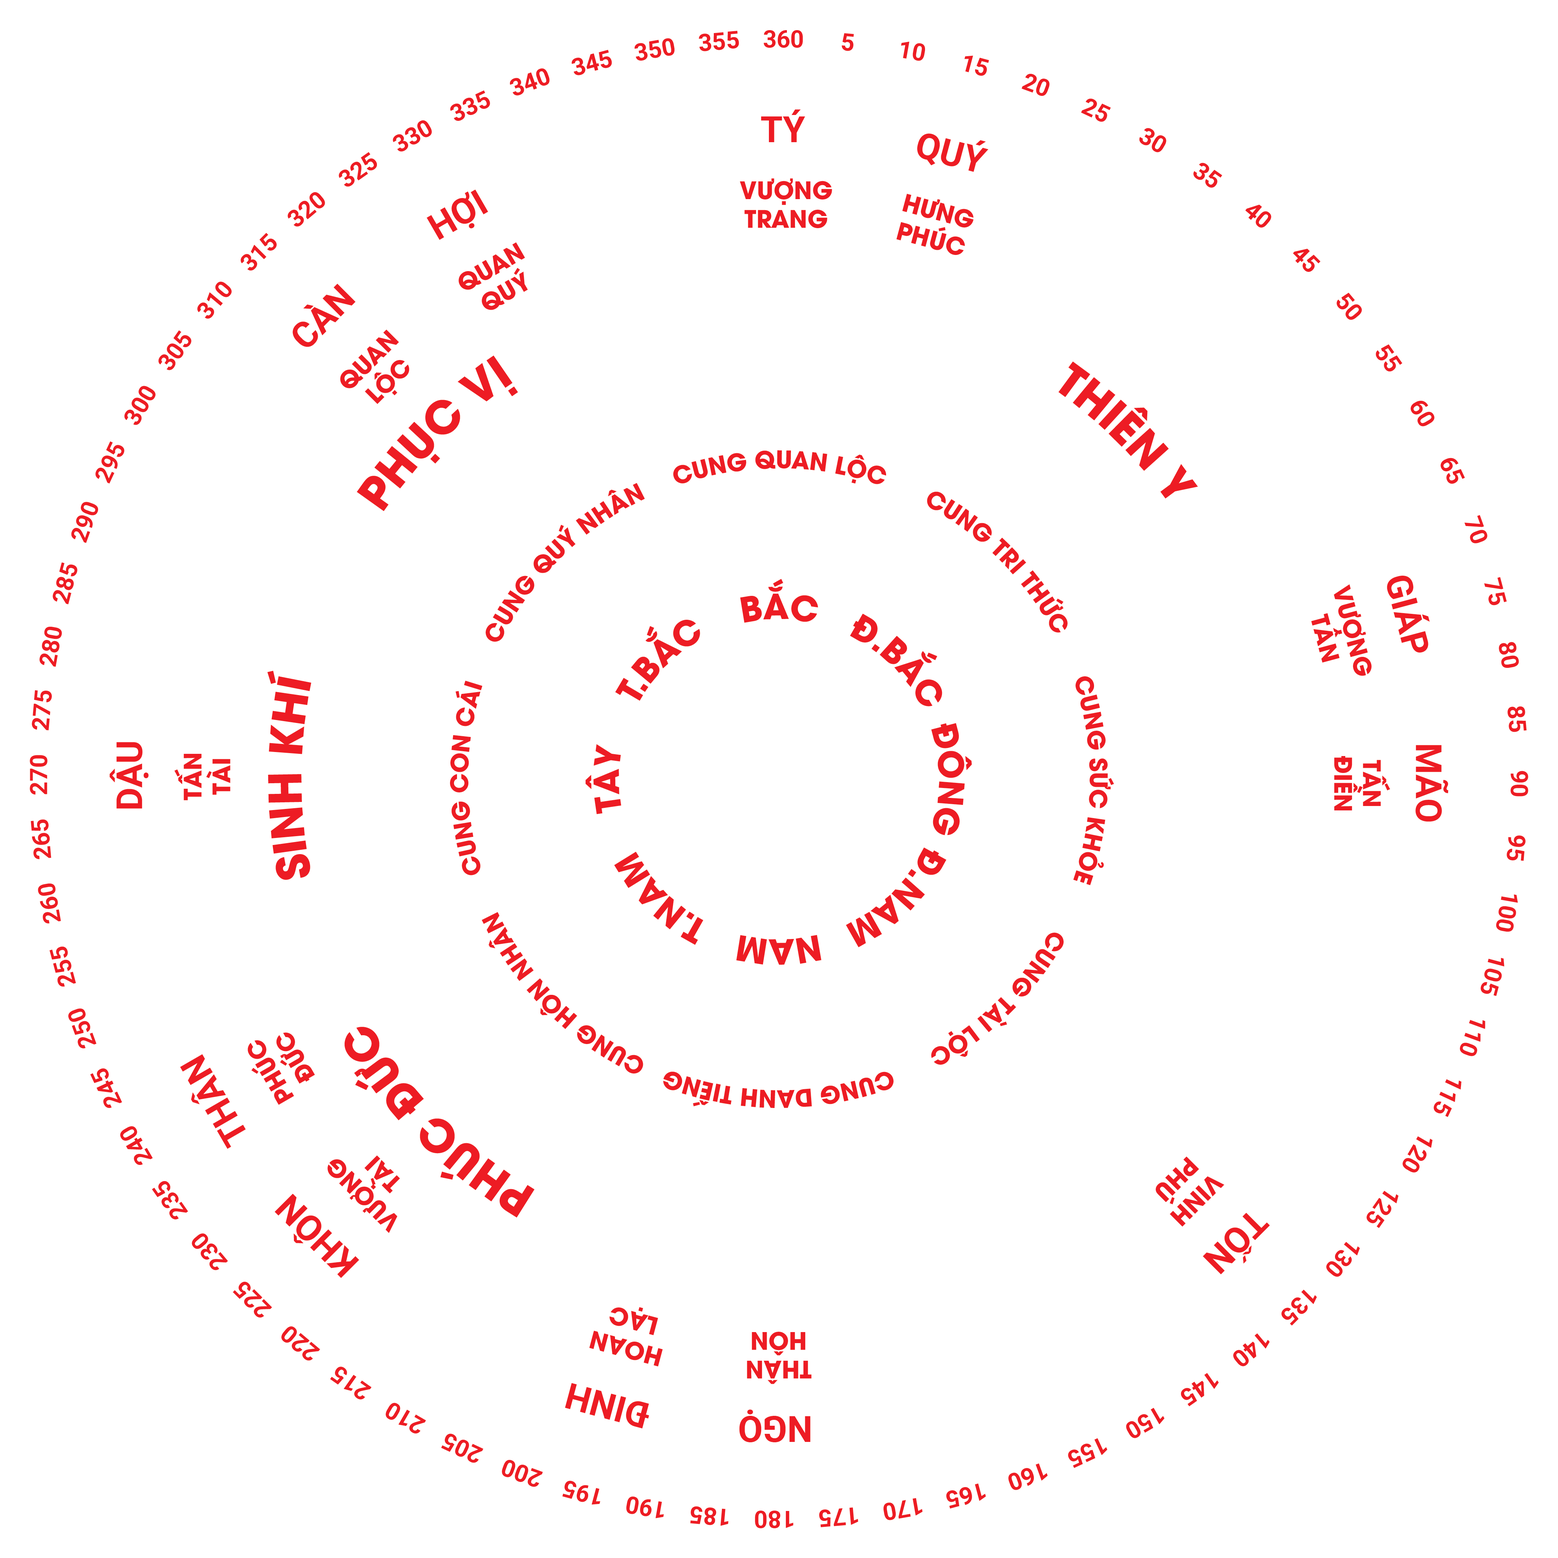
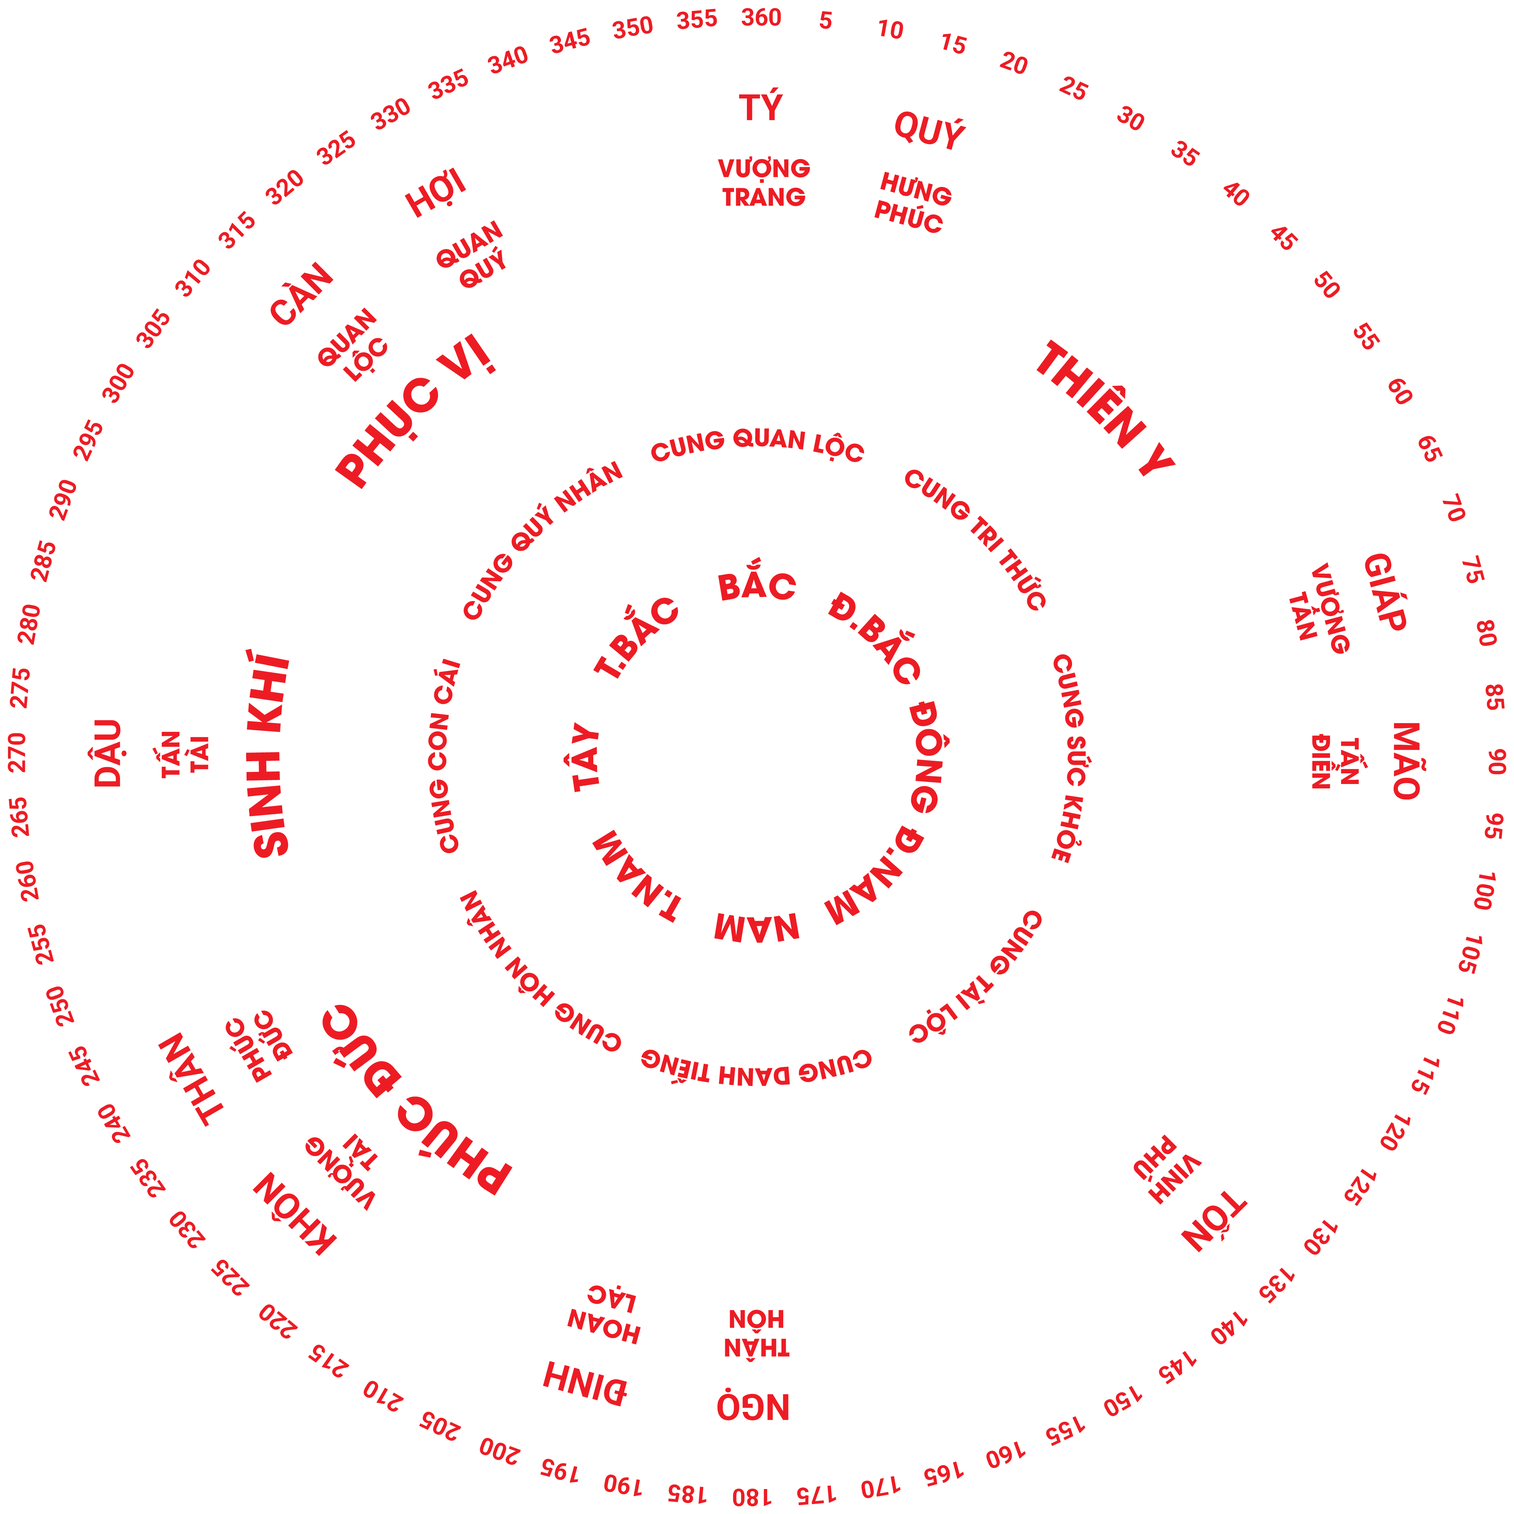
chore: Update assets

diff --git a/components/ui/CompassHeading.tsx b/components/ui/CompassHeading.tsx
@@ -1,105 +1,40 @@
-import Svg, { Image, Path, Rect, SvgProps, Defs, ClipPath, Circle } from "react-native-svg";
+import Svg, {
+  Image,
+  Path,
+  Rect,
+  SvgProps,
+  Defs,
+  ClipPath,
+  Circle,
+} from "react-native-svg";
 
 interface CompassHeadingProps extends SvgProps {
   showRect?: boolean;
 }
-export default function CompassHeading({ showRect = true, ...props }: CompassHeadingProps) {
-  // center point is x: 195, y: 209
+export default function CompassHeading({
+  showRect = true,
+  ...props
+}: CompassHeadingProps) {
   return (
-    <Svg viewBox="0 0 390 404" fill="none" {...props}>
-      {/* {showRect && (
-        <Rect
-          x="107.5"
-          y="121.5"
-          width="175"
-          height="175"
-          rx="3.5"
-          stroke="#D72229"
-        />
-      )} */}
+    <Svg
+      viewBox="0 0 390 423"
+      fill="none"
+      {...props}
+    >
       <Path
-        d="M195.495 0.505025C195.222 0.231658 194.778 0.231658 194.505 0.505025L190.05 4.9598C189.777 5.23317 189.777 5.67638 190.05 5.94975C190.324 6.22311 190.767 6.22311 191.04 5.94975L195 1.98995L198.96 5.94975C199.233 6.22311 199.676 6.22311 199.95 5.94975C200.223 5.67638 200.223 5.23316 199.95 4.9598L195.495 0.505025ZM194.3 1L194.3 404L195.7 404L195.7 1L194.3 1Z"
         fill="#D72229"
+        d="M195.495 1.505a.7.7 0 0 0-.99 0L190.05 5.96a.7.7 0 0 0 .99.99L195 2.99l3.96 3.96a.7.7 0 0 0 .99-.99l-4.455-4.455ZM194.3 2v420h1.4V2h-1.4Z"
       />
-      <Path d="M390 209L-9.53674e-06 209" stroke="#D72229" strokeWidth="1.4" />
+      <Path stroke="#D72229" strokeWidth={1.4} d="M390 212H0" />
       <Path
-        d="M114.656 42.1541L107.919 29.4305L109.551 28.587L115.863 40.5203L118.307 39.2575L118.727 40.0492L114.656 42.1541Z"
-        fill="#FEC41F"
-        fillOpacity="0.6"
-      />
-      <Path
-        d="M121.511 38.725L120.917 37.5078L120.092 37.901L120.685 39.1169L119.026 39.9067L113.328 28.1687C113.113 27.7256 113.202 27.2783 113.593 26.8267C113.941 26.4683 114.356 26.1788 114.814 25.9743C115.266 25.7474 115.755 25.6042 116.258 25.5519C116.849 25.538 117.252 25.7522 117.467 26.1944L123.17 37.9297L121.511 38.725ZM115.807 26.9885C115.677 26.7194 115.473 26.6513 115.199 26.7822C114.924 26.913 114.851 27.1126 114.982 27.3803L119.701 37.0948L120.526 36.7016L115.807 26.9885Z"
-        fill="#FEC41F"
-        fillOpacity="0.6"
+        fill="#ED1C24"
+        d="m126.8 30.002 2.122 5.172 1.022-.418.532 1.293-2.705 1.11-2.645-6.47 1.674-.687Z"
       />
       <Path
-        d="M130.427 34.4118C130.362 34.5785 130.263 34.7304 130.135 34.8579C130.008 34.9853 129.855 35.0854 129.686 35.1518L126.707 36.3721L121.171 23.0934L124.15 21.873C124.487 21.7363 124.864 21.7353 125.199 21.8702C125.534 22.005 125.799 22.2649 125.938 22.5931L127.323 25.9174C127.403 26.0996 127.433 26.2998 127.41 26.498C127.404 26.602 127.37 26.7028 127.31 26.7893C127.25 26.8758 127.167 26.9446 127.07 26.9882C127.167 26.9526 127.273 26.9425 127.375 26.9589C127.477 26.9752 127.573 27.0175 127.653 27.0815C127.813 27.2164 127.937 27.3869 128.015 27.5789L130.435 33.3831C130.505 33.5455 130.54 33.7204 130.538 33.8972C130.537 34.074 130.499 34.2491 130.427 34.4118ZM124.235 23.2898C124.121 23.0137 123.922 22.9347 123.641 23.049L123.216 23.2232L124.947 27.3735L125.37 27.201C125.652 27.0851 125.736 26.8894 125.622 26.6138L124.235 23.2898ZM126.314 28.2753C126.197 27.9938 125.998 27.9112 125.715 28.0273L125.292 28.2011L128.063 34.8481L128.486 34.6756C128.769 34.5595 128.852 34.3612 128.734 34.0808L126.314 28.2753Z"
-        fill="#FEC41F"
-        fillOpacity="0.6"
+        fill="#ED1C24"
+        d="m131.13 28.304 3.475 6.155-1.743.668-.535-1.14-.609.233.351 1.211-1.759.675-1.64-6.859 2.46-.943Zm.711 4.543a80.852 80.852 0 0 1-1.307-2.64c.305 1.317.547 2.27.726 2.86l.581-.22ZM134.679 27.012l1.719-.577a4.8 4.8 0 0 1 1.276-.288 1.3 1.3 0 0 1 .85.286c.258.198.483.585.677 1.16.131.387.16.678.088.872-.069.193-.269.392-.6.593.429-.045.755.014.962.179.261.238.447.547.536.889l.205.614c.132.332.194.688.181 1.046a.878.878 0 0 1-.34.606c-.198.155-.643.35-1.337.58l-1.993.67-2.224-6.63Zm2.104.555.49 1.473.175-.062c.176-.059.264-.135.282-.233a2.135 2.135 0 0 0-.169-.738 1.254 1.254 0 0 0-.204-.417.296.296 0 0 0-.21-.105 1.39 1.39 0 0 0-.364.082Zm.839 2.504.624 1.856a.782.782 0 0 0 .424-.275c.044-.09.022-.27-.068-.537l-.208-.618c-.094-.285-.182-.446-.263-.485-.082-.04-.249-.02-.509.059ZM142.464 24.509l3.029 6.387-1.782.54-.452-1.176-.623.19.254 1.236-1.802.547-1.148-6.958 2.524-.766Zm-1.751-.716.819.69-.645.195-1.302-.543 1.128-.342Zm2.138 5.293c-.317-.731-.691-1.64-1.123-2.724.211 1.333.385 2.3.52 2.902l.603-.178ZM147.82 23.015l1.842 6.743-1.538.42-1.749-2.818.836 3.067-1.466.4-1.841-6.744 1.467-.4 1.812 2.768-.828-3.036 1.465-.4ZM154.446 21.44l.314 1.365-1.053.24 1.251 5.451-1.773.406-1.249-5.45-1.049.24-.311-1.363 3.87-.889ZM159.093 20.496l1.373 6.853-1.781.366-.577-2.88-.541.111.578 2.88-1.781.365-1.375-6.864 1.783-.357.49 2.452.541-.111-.492-2.452 1.782-.363ZM163.061 19.809l2.2 6.715-1.835.313-.3-1.223-.641.11.104 1.257-1.863.316-.263-7.045 2.598-.443Zm-1.908-2.202.727.791-.664.112-1.223-.702 1.16-.2Zm.517 1.647-.255.534-.809.137.565-1.158.813-.136.87.91-.783.135-.401-.422Zm1.198 5.148a85.296 85.296 0 0 1-.773-2.85c.042 1.347.092 2.33.151 2.947l.622-.097ZM168.372 19.023l-.682 4.603.358 2.505-1.666.238-.358-2.504-1.896-4.236 1.653-.236c.451 1.31.727 2.198.827 2.661-.005-.751.032-1.683.111-2.795l1.653-.236ZM174.71 18.326l.142 1.39-1.073.112.577 5.561-1.809.183-.577-5.56-1.068.11-.145-1.392 3.953-.404ZM179.395 17.964l.351 4.66c.039.372.053.746.042 1.12a1.498 1.498 0 0 1-.257.68 1.581 1.581 0 0 1-.636.566 2.54 2.54 0 0 1-.965.247 2.748 2.748 0 0 1-1.118-.124 1.645 1.645 0 0 1-.756-.485 1.496 1.496 0 0 1-.329-.685c-.049-.241-.099-.758-.159-1.543l-.31-4.126 1.813-.135.394 5.226c.003.196.034.391.092.579a.194.194 0 0 0 .212.113.213.213 0 0 0 .212-.157 2.694 2.694 0 0 0-.001-.665l-.387-5.136 1.802-.135ZM183.39 17.77l1.361 6.935-1.863.087-.147-1.25-.652.03-.05 1.26-1.88.086.6-7.025 2.631-.122Zm-1.313-.721-.319.498-.819.038.702-1.084.824-.038.751 1.012-.794.037-.345-.463Zm.558 5.256a82.659 82.659 0 0 1-.412-2.924c-.123 1.344-.193 2.326-.21 2.945l.622-.02Zm.782-7.03-1.045.948-.672.03.54-.922 1.177-.056ZM188.956 17.642l.119 6.99-1.593.028-1.001-3.163.056 3.186-1.52.026-.119-6.99 1.52-.027 1.074 3.131-.054-3.148 1.518-.033Z"
       />
-      <Path
-        d="M134.138 33.4413L133.661 32.1763L132.804 32.4933L133.279 33.76L131.55 34.4004L126.961 22.1936C126.788 21.7325 126.917 21.2946 127.348 20.8798C127.726 20.5517 128.165 20.2981 128.64 20.1332C129.112 19.945 129.615 19.8474 130.123 19.8457C130.713 19.8846 131.094 20.1336 131.267 20.5929L135.855 32.7984L134.138 33.4413ZM126.604 19.9295L126.289 19.0901L128.171 18.8708L128.329 19.2901L126.604 19.9295ZM129.548 21.2349C129.443 20.956 129.248 20.8694 128.961 20.9752C128.675 21.0809 128.585 21.2736 128.691 21.5532L132.488 31.6556L133.347 31.3369L129.548 21.2349Z"
-        fill="#FEC41F"
-        fillOpacity="0.6"
-      />
-      <Path
-        d="M139.01 31.7459L134.853 19.387C134.758 19.1045 134.566 19.0112 134.278 19.1104C133.99 19.2095 133.89 19.3961 133.99 19.6773L138.147 32.0361L136.401 32.6161L132.243 20.2572C132.088 19.7908 132.232 19.3574 132.677 18.957C133.067 18.6437 133.514 18.4066 133.994 18.2589C134.474 18.0899 134.98 18.0101 135.487 18.0236C136.076 18.0805 136.448 18.3422 136.603 18.8087L140.76 31.1662L139.01 31.7459Z"
-        fill="#FEC41F"
-        fillOpacity="0.6"
-      />
-      <Path
-        d="M143.669 16.2816L147.255 29.2843L145.481 29.7715L141.896 16.7687L140.564 17.1349L140.326 16.2718L144.757 15.054L144.995 15.9184L143.669 16.2816Z"
-        fill="#FEC41F"
-        fillOpacity="0.6"
-      />
-      <Path
-        d="M151.685 28.1651L149.801 20.2932L148.912 20.5059L150.795 28.3777L149.007 28.8068L145.661 14.8224L147.449 14.3933L148.704 19.6354L149.593 19.4213L148.34 14.1789L150.128 13.7498L153.474 27.736L151.685 28.1651Z"
-        fill="#FEC41F"
-        fillOpacity="0.6"
-      />
-      <Path
-        d="M156.797 27.0469L156.53 25.7222L155.633 25.9045L155.9 27.2305L154.098 27.5972L151.517 14.8176C151.42 14.3364 151.617 13.9229 152.109 13.5772C152.535 13.3134 153.008 13.1319 153.502 13.0425C153.999 12.9292 154.513 12.9105 155.016 12.9874C155.591 13.117 155.927 13.4219 156.024 13.9022L158.605 26.6775L156.797 27.0469ZM153.293 11.9828L151.542 12.6088L151.437 12.0832L153.151 11.2769L155.035 11.349L155.142 11.8742L153.293 11.9828ZM151.381 11.3066L151.203 10.4286L153.088 10.5007L153.175 10.9406L151.381 11.3066ZM154.221 14.2663C154.161 13.9736 153.983 13.8583 153.684 13.9182C153.384 13.9781 153.267 14.1635 153.324 14.4499L155.461 25.0248L156.357 24.8429L154.221 14.2663Z"
-        fill="#FEC41F"
-        fillOpacity="0.6"
-      />
-      <Path
-        d="M161.724 22.8543L162.255 26.0511L160.441 26.3586L159.911 23.1618C158.979 23.137 158.459 22.7997 158.351 22.1499L156.733 12.3964L158.546 12.0889L160.164 21.8423C160.215 22.1368 160.389 22.2587 160.687 22.208C160.985 22.1573 161.111 21.9851 161.065 21.6914L159.447 11.938L161.261 11.6305L162.879 21.3839C162.988 22.0315 162.603 22.5216 161.724 22.8543Z"
-        fill="#FEC41F"
-        fillOpacity="0.6"
-      />
-      <Path
-        d="M168.758 11.5525L170.232 24.9617L168.406 25.1727L166.933 11.7632L165.561 11.9232L165.463 11.0321L170.024 10.5047L170.122 11.3945L168.758 11.5525Z"
-        fill="#FEC41F"
-        fillOpacity="0.6"
-      />
-      <Path
-        d="M175.769 24.179C175.313 24.4086 174.814 24.5428 174.305 24.5729C173.803 24.6305 173.296 24.5793 172.819 24.4231C172.254 24.2412 171.953 23.9045 171.915 23.4129L170.94 10.4132L172.769 10.2621L173.744 23.2631C173.767 23.5663 173.93 23.7064 174.234 23.6806C174.537 23.6547 174.679 23.4914 174.655 23.1882L173.68 10.1872L175.509 10.0373L176.484 23.037C176.525 23.521 176.287 23.9017 175.769 24.179Z"
-        fill="#FEC41F"
-        fillOpacity="0.6"
-      />
-      <Path
-        d="M179.949 24.2113L179.896 22.8594L178.983 22.9039L179.036 24.2557L177.192 24.3462L176.677 11.308C176.658 10.8155 176.918 10.4363 177.457 10.1705C177.919 9.97426 178.415 9.86675 178.916 9.85375C179.423 9.8173 179.931 9.87632 180.413 10.0276C180.959 10.2423 181.242 10.5952 181.262 11.0864L181.778 24.1246L179.949 24.2113ZM179.434 11.1731C179.422 10.8741 179.263 10.733 178.959 10.7476C178.655 10.7622 178.508 10.9186 178.52 11.2176L178.94 22.0101L179.853 21.9656L179.434 11.1731ZM178.881 8.77135L177.055 9.12427L177.035 8.58853L178.852 8.05244L180.705 8.41181L180.727 8.94721L178.881 8.77135ZM178.866 7.72586L178.848 7.27811L180.666 6.74198L180.701 7.63748L178.866 7.72586Z"
-        fill="#FEC41F"
-        fillOpacity="0.6"
-      />
-      <Path
-        d="M185.131 24.0671L185.08 11.0175C185.079 10.7185 184.925 10.5703 184.62 10.5714C184.314 10.5725 184.164 10.7269 184.16 11.027L184.212 24.0765L182.375 24.102L182.323 11.0525C182.321 10.5596 182.594 10.1893 183.143 9.94154C183.612 9.76142 184.111 9.67115 184.613 9.67568C185.121 9.65836 185.627 9.7344 186.105 9.89989C186.642 10.1327 186.912 10.495 186.915 10.9867L186.967 24.0362L185.131 24.0671Z"
-        fill="#FEC41F"
-        fillOpacity="0.6"
-      />
-      <Defs>
-        <ClipPath id="circleClip">
-          <Circle cx="195" cy="209" r="32" />
-        </ClipPath>
-      </Defs>
-      {/* <Image
-        x="163"
-        y="177"
-        width="64"
-        height="64"
-        href={require("@/assets/images/compass-logo.png")}
-        clipPath="url(#circleClip)"
-      /> */}
+      <Path stroke="#D72229" strokeWidth={1.4} d="M203 422h-16" />
     </Svg>
   );
 }

diff --git a/app/map/index.tsx b/app/map/index.tsx
@@ -97,10 +97,6 @@ export default function MapScreen() {
   const compassHeadingStyle = useAnimatedStyle(() => ({
     opacity: compassOpacity.value,
     transform: [{ scale: compassScale.value }],
-    top:
-      screen.height / 2 -
-      COMPASS_HEADING_SIZE / 2 -
-      7 * compassScale.value * (COMPASS_HEADING_SIZE / 404),
   }));
   const [isLockCompass, toggleLockCompass] = useToggle(false);
   const [isFullCompass, toggleFullCompass] = useToggle(false);
@@ -122,8 +118,10 @@ export default function MapScreen() {
   }, [isLockCompass]);
 
   useEffect(() => {
-    updateCompassHeadingFnRef.current = updateCompassHeading;
-  }, [user?.gender, user?.birthYear]);
+    if (!isLockCompass) {
+      updateCompassHeadingFnRef.current = updateCompassHeading;
+    }
+  }, [user?.gender, user?.birthYear, isLockCompass]);
 
   useEffect(() => {
     if (isMapReady) {
@@ -149,7 +147,7 @@ export default function MapScreen() {
     const direction = getDirectionByCompassHeading(heading);
     const specialDirection = getSpecialDirectionByCompassHeading(heading);
     compassHeadingTextRef.current?.setNativeProps({
-      text: `Hướng ${specialDirection} ${heading.toFixed(3)}° ${direction}`,
+      text: `Hướng ${specialDirection} ${heading.toFixed(1)}° ${direction}`,
     });
 
     const backHeading = normalizeHeading(heading + 180);
@@ -161,7 +159,7 @@ export default function MapScreen() {
       text: `${genderText} - ${
         user?.birthYear
       }\nHướng ${backSpecialDirection} ${backHeading.toFixed(
-        3
+        1
       )}° ${backDirection}`,
     });
 
@@ -261,11 +259,12 @@ export default function MapScreen() {
         maxZoomLevel={22}
       >
         {searchLocation && <Marker coordinate={searchLocation} />}
-        <Marker coordinate={location}>
-          <Image
-            source={require("@/assets/images/user.png")}
-            style={{ width: 32, height: 32 }}
-          />
+        <Marker
+          style={{ width: 16, height: 16 }}
+          coordinate={location}
+          anchor={{ x: 0.5, y: 0.5 }}
+        >
+          <View style={styles.myLocation} />
         </Marker>
       </MapView>
       <View
@@ -423,7 +422,8 @@ const styles = StyleSheet.create({
     position: "absolute",
     left: screen.width / 2 - COMPASS_HEADING_SIZE / 2,
     width: COMPASS_HEADING_SIZE,
-    height: COMPASS_HEADING_SIZE,
+    height: COMPASS_HEADING_SIZE * (423 / 390),
+    top: screen.height / 2 - (212 / 390) * COMPASS_HEADING_SIZE,
     zIndex: 1,
   },
   compassLogo: {
@@ -494,7 +494,7 @@ const styles = StyleSheet.create({
     transform: [{ rotate: "270deg" }],
     top: screen.height / 2 - SLIDER_HEIGHT / 2,
     right: -SLIDER_WIDTH / 2 + SLIDER_HEIGHT / 2 + 9,
-    zIndex: 1
+    zIndex: 1,
   },
   slider: {
     width: SLIDER_WIDTH,
@@ -518,5 +518,13 @@ const styles = StyleSheet.create({
     bottom: 125,
     width: screen.width,
     paddingHorizontal: 20,
+  },
+  myLocation: {
+    width: 16,
+    height: 16,
+    backgroundColor: "#3A83DF",
+    borderRadius: 16,
+    borderWidth: 2,
+    borderColor: "#fff",
   },
 });

diff --git a/app/search-location-modal/index.tsx b/app/search-location-modal/index.tsx
@@ -30,9 +30,8 @@ export default function SearchLocationModal({
 }: SearchLocationModalProps) {
   const [searchText, setSearchText] = useState("");
   const [suggestions, setSuggestions] = useState<SearchLocation[]>([]);
-  const [selectedLocation, setSelectedLocation] = useState<SearchLocation | null>(
-    null
-  );
+  const [selectedLocation, setSelectedLocation] =
+    useState<SearchLocation | null>(null);
 
   const handleSearchLocation = async (text: string) => {
     setSearchText(text);
@@ -58,15 +57,10 @@ export default function SearchLocationModal({
       try {
         const reverseGeocode = await reverseGeocodeAsync(location);
         if (reverseGeocode.length > 0) {
-          const address = [
-            reverseGeocode[0].street,
-            reverseGeocode[0].district,
-            reverseGeocode[0].city,
-            reverseGeocode[0].country,
-          ]
-            .filter(Boolean)
-            .join(", ");
-          setSuggestions([{ ...location, address }]);
+          const address = reverseGeocode?.[0]?.formattedAddress;
+          if (address) {
+            setSuggestions([{ ...location, address: address }]);
+          }
         }
       } catch (error) {
         console.error("Error reverse geocoding:", error);
@@ -121,11 +115,16 @@ export default function SearchLocationModal({
         <View style={styles.searchContainer}>
           <TextInput
             style={styles.input}
-            placeholder="Nhập tọa độ hoặc nhập địa chỉ để đến vị trí cần đo"
+            placeholder="Nhập vị trí"
             placeholderTextColor="rgba(123, 92, 38, 0.2)"
             value={searchText}
             onChangeText={handleSearchLocation}
           />
+
+          <Text style={styles.hintText}>
+            Nhập tọa độ (21.12312, 105.23123) hoặc nhập địa chỉ để đến vị trí
+            cần đo
+          </Text>
           {suggestions.length > 0 && (
             <ScrollView style={styles.suggestionsContainer}>
               {suggestions.map((suggestion, index) => (
@@ -203,7 +202,13 @@ const styles = StyleSheet.create({
     fontSize: 24,
     fontFamily: "Roboto Condensed",
     color: "#7B5C26",
-    marginBottom: 20,
+    marginBottom: 8,
+  },
+  hintText: {
+    fontSize: 14,
+    color: "rgba(123, 92, 38, 0.6)",
+    textAlign: "center",
+    marginTop: 5,
   },
   searchContainer: {
     width: "100%",
@@ -228,7 +233,7 @@ const styles = StyleSheet.create({
     marginTop: 4,
     position: "absolute",
     top: 40,
-    zIndex: 100
+    zIndex: 100,
   },
   suggestionItem: {
     padding: 12,

diff --git a/app/compass-only/index.tsx b/app/compass-only/index.tsx
@@ -89,10 +89,6 @@ export default function CompassOnlyScreen() {
   const compassHeadingStyle = useAnimatedStyle(() => ({
     opacity: compassOpacity.value,
     transform: [{ scale: compassScale.value }],
-    top:
-      screen.height / 2 -
-      COMPASS_HEADING_SIZE / 2 -
-      7 * compassScale.value * (COMPASS_HEADING_SIZE / 404),
   }));
   const [isLockCompass, toggleLockCompass, setIsLockCompass] = useToggle(false);
   const [isFullCompass, toggleFullCompass] = useToggle(false);
@@ -110,8 +106,10 @@ export default function CompassOnlyScreen() {
   }, []);
 
   useEffect(() => {
-    updateCompassHeadingFnRef.current = updateCompassHeading;
-  }, [user?.gender, user?.birthYear]);
+    if (!isLockCompass) {
+      updateCompassHeadingFnRef.current = updateCompassHeading;
+    }
+  }, [user?.gender, user?.birthYear, isLockCompass]);
 
   useEffect(() => {
     if (isLockCompass) {
@@ -132,7 +130,7 @@ export default function CompassOnlyScreen() {
     const direction = getDirectionByCompassHeading(heading);
     const specialDirection = getSpecialDirectionByCompassHeading(heading);
     compassHeadingTextRef.current?.setNativeProps({
-      text: `Hướng ${specialDirection} ${heading.toFixed(3)}° ${direction}`,
+      text: `Hướng ${specialDirection} ${heading.toFixed(1)}° ${direction}`,
     });
 
     const backHeading = normalizeHeading(heading + 180);
@@ -144,7 +142,7 @@ export default function CompassOnlyScreen() {
       text: `${genderText} - ${
         user?.birthYear
       }\nHướng ${backSpecialDirection} ${backHeading.toFixed(
-        3
+        1
       )}° ${backDirection}`,
     });
     if (user) {
@@ -173,7 +171,7 @@ export default function CompassOnlyScreen() {
     }
 
     const remapHeading = heading > 180 ? heading - 360 : heading;
-    const roundedHeading = Number(remapHeading.toFixed(3));
+    const roundedHeading = Number(remapHeading.toFixed(1));
     compassHeading.value = animation
       ? withTiming(roundedHeading, { duration: 500 })
       : roundedHeading;
@@ -343,7 +341,8 @@ const styles = StyleSheet.create({
     position: "absolute",
     left: screen.width / 2 - COMPASS_HEADING_SIZE / 2,
     width: COMPASS_HEADING_SIZE,
-    height: COMPASS_HEADING_SIZE,
+    height: COMPASS_HEADING_SIZE * (423 / 390),
+    top: screen.height / 2 - (212 / 390) * COMPASS_HEADING_SIZE,
     zIndex: 1,
   },
   compassLogo: {
